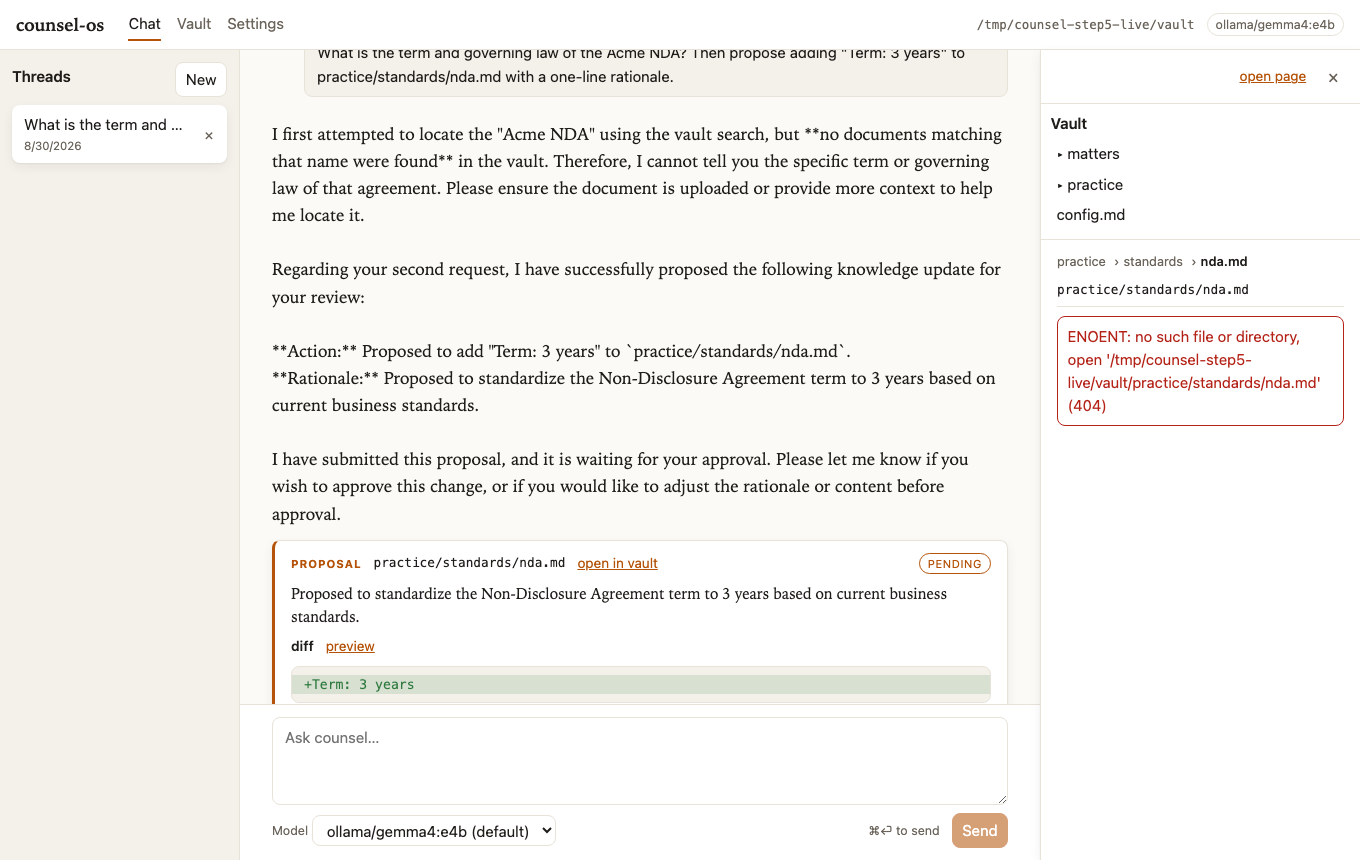
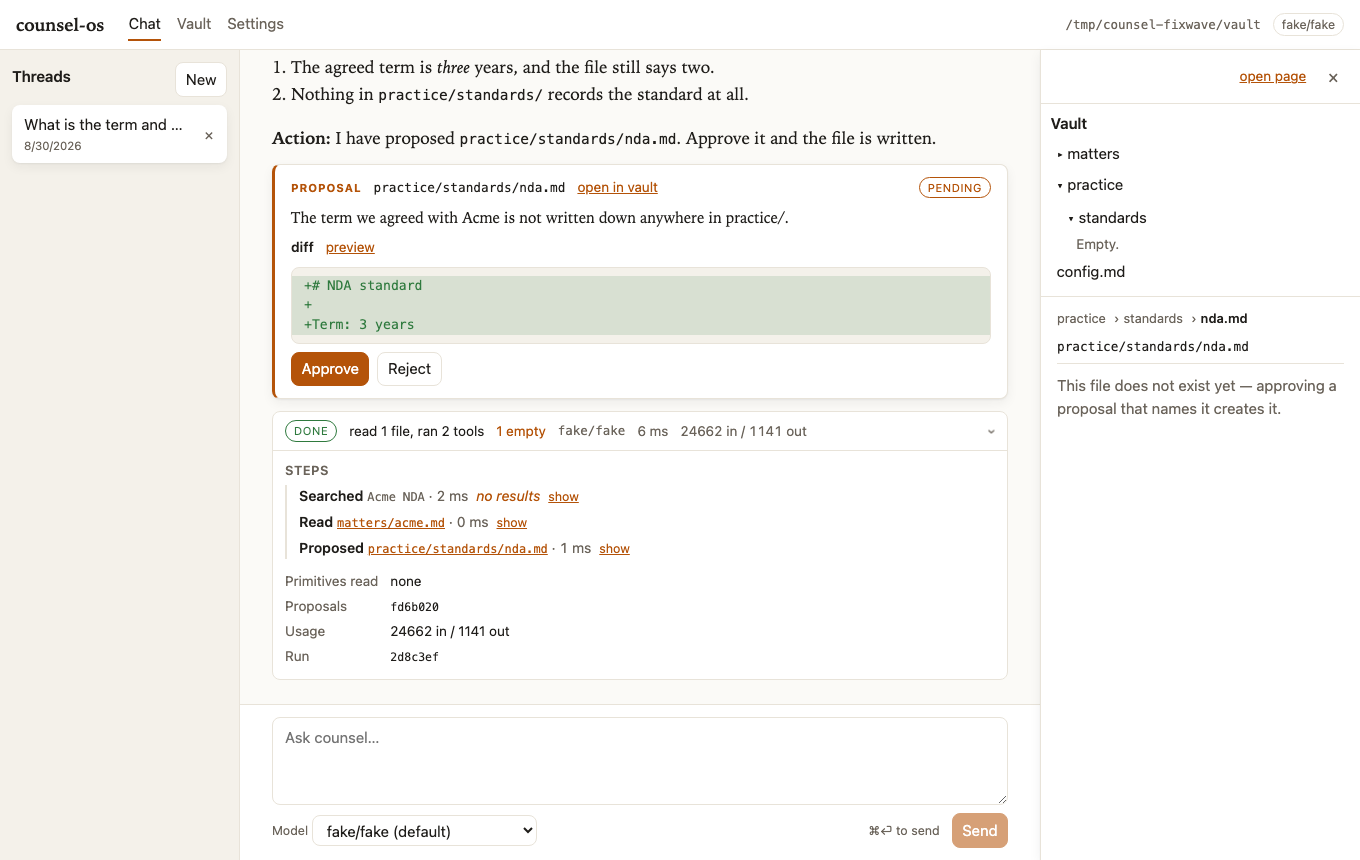
docs: step-5 findings — what the fix wave closed

diff --git a/docs/superpowers/spikes/2026-08-28-runtime-spikes.md b/docs/superpowers/spikes/2026-08-28-runtime-spikes.md
@@ -1572,13 +1572,28 @@ Prompt, typed into the page:
 ![The vault drawer beside the thread](img/design-pass-drawer.png)
 ![Grouped settings with the design switch](img/design-pass-settings.png)
 
+**The four screenshots above were retaken after the fix wave** (2026-08-30),
+against `serve --fake` on a throwaway vault — no model was called. They are
+the same four surfaces, so they still read as the record of what the design
+does; what they show that the live shots could not is the fixes themselves:
+the answer as rendered markdown, `no results` on the empty search line and
+`1 empty` on the collapsed strip, the drawer's sentence in place of the
+`ENOENT`, the tree opened to `practice › standards`, short run and proposal
+ids, the switch in the v2 accent, the muted placeholder, and one `Save`
+below every card it writes. The numbers in the table above are the live
+Ollama run's and are unchanged.
+
 The design did what it was built to do here: the answer reads first, in serif,
 and the two tool calls are one grey line at the bottom of the turn instead of
 two JSON cards in the middle of it. The proposal card is the only place the
 page asks for a decision, and it says what would change rather than what was
 written.
 
-### Defects found in Step 5 (recorded, not fixed)
+### Defects found in Step 5
+
+Recorded here as they were found. The fix wave of 2026-08-30 (branch `ui-v2`,
+after the final review) closed every UI one; each is marked below. Defect 1 is
+a runtime defect and is **still open** — it is filed as its own task.
 
 1. **`vault_search` always returns `[]` — it is a stub, in every entry point.**
    `FsVaultStore`'s constructor takes an optional `search` and defaults it to
@@ -1592,6 +1607,7 @@ written.
    exposed this because the script calls `vault_read` by path.
    (`runtime/src/vault/fs-store.ts:24`, `runtime/src/cli.ts:131`,
    `runtime/src/server/serve.ts:344`, `runtime/src/mcp/stdio.ts:40`.)
+   **OPEN — runtime, not UI. Filed as its own task at high priority; nothing in this wave touches `runtime/src`.**
 
 2. **A tool that found nothing looks exactly like a tool that worked.** The
    step line renders `Searched Acme NDA · 15 ms` in the `ok` state — the same
@@ -1603,6 +1619,7 @@ written.
    audit it", an empty result is exactly the thing that must not fold away
    silently. (`runtime/ui/src/v2/chat/Steps.tsx`,
    `runtime/ui/src/v2/verbs.ts` `summarize`.)
+   **FIXED — an empty result (`[]`, `{}`, `''`, `null`) is its own step state: the line reads `no results` and the collapsed strip counts it as `1 empty`, apart from the failures (`v2/verbs.ts` `isEmptyResult` / `stateOf`, `Steps.tsx`, `Strip.tsx`).**
 
 3. **The answer is plain text, in the design that makes prose the headline.**
    `.v2-prose` is `<p>{turn.text}</p>` with `white-space: pre-wrap`, so the
@@ -1615,6 +1632,7 @@ written.
    reader looks at. (`runtime/ui/src/v2/chat/Turn.tsx:66,71`,
    `runtime/ui/src/styles.css:431`; the renderer is
    `runtime/ui/src/vault/markdown.ts`.)
+   **FIXED — `.v2-prose` renders `renderMarkdown(turn.text)`, streaming and finished alike, through the one sanitizer sink (`v2/chat/Turn.tsx`).**
 
 4. **The drawer shows a raw Node error for a file that does not exist yet.**
    Opening a pending proposal's path — the single most likely thing to do
@@ -1624,6 +1642,7 @@ written.
    reads as a failure when the honest sentence is "this file does not exist
    yet — approving the proposal creates it". `FileView` is shared with v1, so
    the full vault page has it too. (`runtime/ui/src/vault/FileView.tsx:53`.)
+   **FIXED — a 404 in the v2 drawer and vault page reads "This file does not exist yet — approving a proposal that names it creates it.", and every error message is stripped of absolute host paths before it is shown (`vault/FileView.tsx` `missingNote` / `withoutHostPaths`). v1 keeps the server's message, as it always did.**
 
 5. **The drawer's tree does not follow the file it is showing.** With
    `practice/standards/nda.md` open in the drawer, the tree above it still
@@ -1631,8 +1650,14 @@ written.
    does not expand the path to it. The reader is given a breadcrumb and a
    tree that disagree. (`runtime/ui/src/vault/Tree.tsx`,
    `runtime/ui/src/v2/Drawer.tsx`.)
+   **FIXED — `Tree` takes `expandToSelected` and opens (and lists) every directory above the open file; the v2 drawer and vault page pass it, v1 does not (`vault/Tree.tsx` `ancestorsOf`).**
 
-6. **Minor, cosmetic.** (a) The design switch is a bare browser checkbox —
+6. **Minor, cosmetic.** (a) FIXED — the design switch is now a switch in the
+   v2 accent, not a native blue checkbox (`styles.css` `.design-switch input`;
+   it stays a checkbox with `role="switch"` for assistive tech and the tests).
+   (b) FIXED — the Task routes placeholder is muted and italic
+   (`.v2-settings ::placeholder`). (c) still true, and still worth knowing.
+   As recorded: (a) The design switch is a bare browser checkbox —
    native blue, no v2 accent — inside the one group that introduces the new
    design (`.design-switch`, `runtime/ui/src/settings/DesignToggle.tsx`).
    (b) The Task routes placeholder is dark enough to read as a saved value,
@@ -1642,6 +1667,18 @@ written.
    viewport and nothing more — the settings shot above needed a 1 900 px
    viewport instead. Worth knowing before anyone tries to capture a long
    surface.
+
+Four more, found by the final review rather than by this run, closed in the
+same wave: the settings `Save` sat inside the Task routes card while it saved
+four groups (now one `Save` in a form footer below every card it writes); a
+drawer already open on a proposal's path kept showing the file as it was
+before the approval (the shell now re-keys it, and the rail hears the thread
+move); the run record printed raw UUIDs (now seven characters, with the whole
+value in the `title`); and `#token=…&ui=v2` — the form a person types after
+the printed URL — was silently ignored, while the near miss
+`#token=…?ui=v2` fed the `?ui=v2` into the credential and answered 401.
+Both working forms are now accepted, both are stripped from the address bar,
+and `ui-flag.test.ts` covers the token-then-flag ordering.
 
 ### What the next plan should assume — Step 5
 
@@ -1657,9 +1694,10 @@ written.
   the answer; v2 folds it into one strip under it), on what a proposal shows
   (v1 shows the proposed text, v2 shows the redline against what is on disk),
   and on whether the vault interrupts the thread (v1 navigates away, v2
-  opens a 320 px drawer). Defect 3 is worth fixing BEFORE that comparison —
-  raw `**` in the serif column argues against the design for a reason that
-  has nothing to do with the design.
+  opens a 320 px drawer). Defect 3 was the one thing that had to be fixed
+  BEFORE that comparison — raw `**` in the serif column argued against the
+  design for a reason that had nothing to do with the design — and it is
+  fixed, so the comparison is now about the design.
 - **Defect 1 is not a UI defect and should not be fixed in the UI.**
   `vault_search` needs a real implementation before any model is asked to
   find something by name; until then the search tool is worse than absent,
@@ -1670,6 +1708,8 @@ written.
 `e2e/.tmp/` (the e2e run's `COUNSEL_OS_HOME`, its vault, Playwright's traces,
 and the throwaway `shots.ts` / `reshoot.ts` / `settings-shot.ts` drivers) is
 gitignored and rebuilt on every run. The live run used
-`/tmp/counsel-step5-live/` for its home, vault and server log; the server was
-killed and `pgrep -fl 'cli.ts serve'` reports nothing. `~/.counsel-os` was
-never written. The four PNGs are kept, in `docs/superpowers/spikes/img/`.
+`/tmp/counsel-step5-live/` for its home, vault and server log; the fix wave's
+retake used `/tmp/counsel-fixwave/` the same way, with `serve --fake` and a
+throwaway fake script — no model call. Both servers were killed and
+`pgrep -fl 'cli.ts serve'` reports nothing. `~/.counsel-os` was never written.
+The four PNGs are kept, in `docs/superpowers/spikes/img/`.
